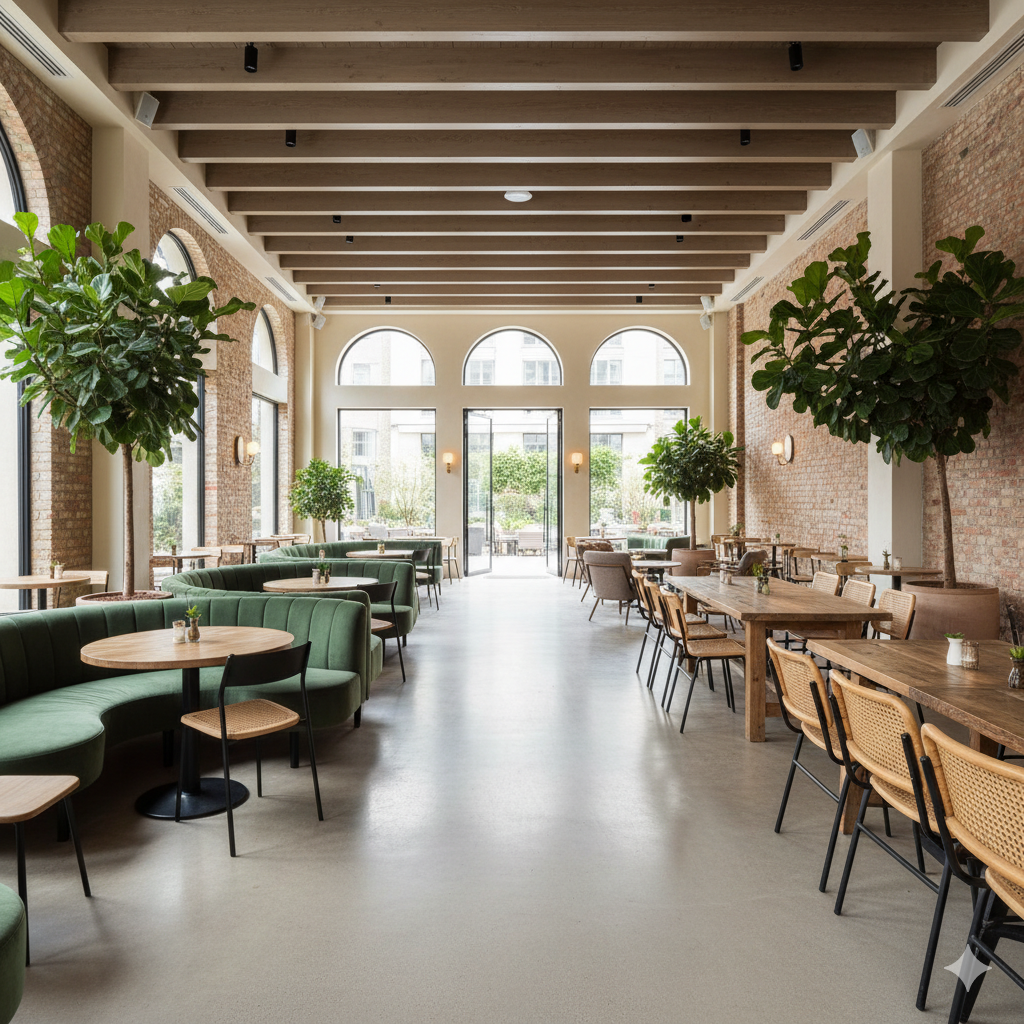
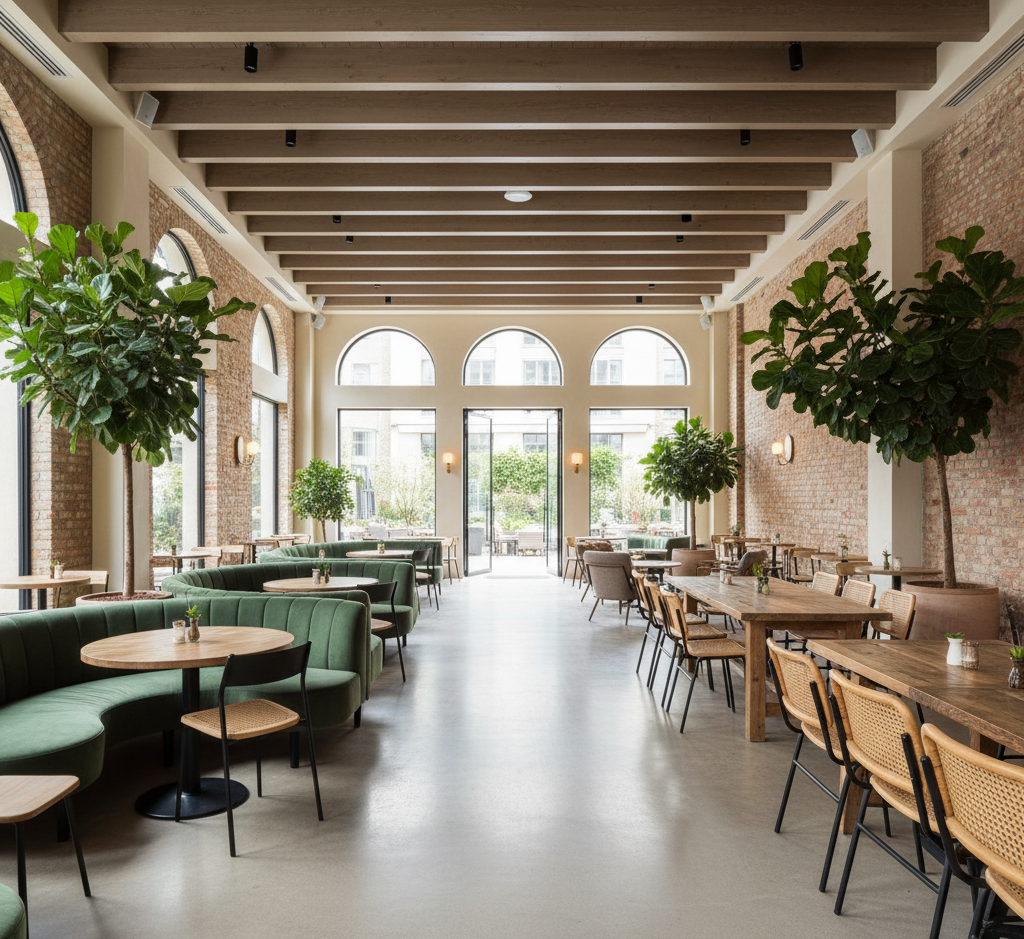
fix: 업로드 가이드 이미지에서 생성형 AI 워터마크 제거

diff --git a/src/app/label/upload/_components/upload-guide.tsx b/src/app/label/upload/_components/upload-guide.tsx
@@ -51,8 +51,8 @@ const UploadGuide = () => {
               src={src}
               alt={`가이드 이미지 ${index + 1}`}
               className='h-full w-full rounded-2xl object-contain'
-              width={280}
-              height={84}
+              width={1024}
+              height={939}
             />
           </li>
         ))}
